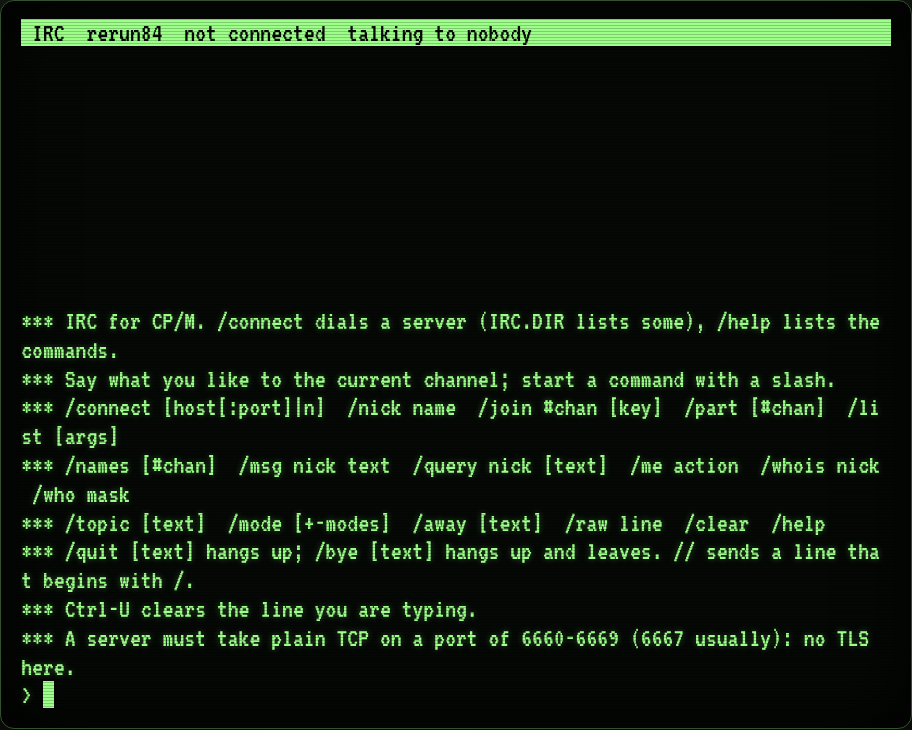
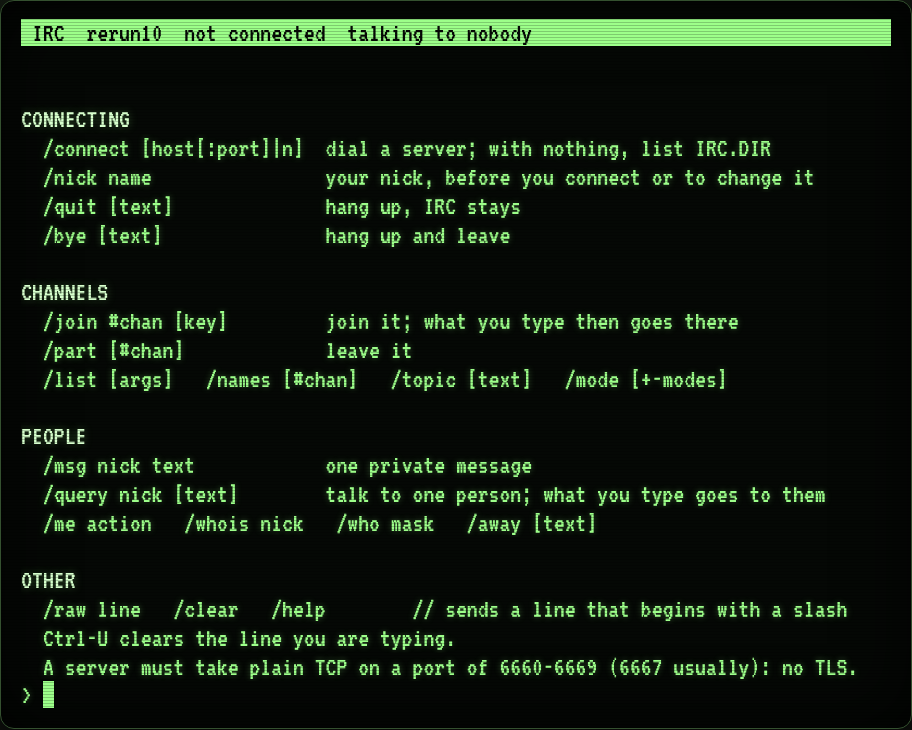
feat(irc): a welcome that shows how to start and a grouped /help; ready-made TERM.DIR and IRC.DIR
/help is four groups (connecting, channels, people, other) in aligned columns
instead of one run-on paragraph. TERM.DIR and IRC.DIR move to the root, ten
entries each, with a test of the limits the programs have (16 entries, 37
columns for TERM, a 24-character dial string).

Changed region(s): [[0.0, 0.3918, 0.9825, 0.9342], [0.0307, 0.1507, 0.8904, 0.3315], [0.1535, 0.0301, 0.1842, 0.0603]]

diff --git a/test/dir.test.js b/test/dir.test.js
@@ -1,0 +1,21 @@
+'use strict';
+// The example directories are real lists the programs can read: TERM shows at most
+// 16 entries, each in a column of 38 characters; IRC lists 16, a line of 76.
+const test = require('node:test');
+const assert = require('node:assert/strict');
+const fs = require('node:fs');
+const path = require('node:path');
+
+const lines = f => fs.readFileSync(path.join(__dirname, '..', f), 'latin1').split('\n').filter(Boolean);
+
+test('TERM.DIR: entries a dial string and a name, each fits its column', () => {
+    const l = lines('TERM.DIR');
+    assert.ok(l.length >= 5 && l.length <= 16, `${l.length} entries`);
+    for (const e of l) { assert.ok(e.length <= 37, e); assert.match(e, /^\S{1,24}( .+)?$/, e); }
+});
+
+test('IRC.DIR: host:port and a name, a plain port', () => {
+    const l = lines('IRC.DIR');
+    assert.ok(l.length >= 5 && l.length <= 16, `${l.length} entries`);
+    for (const e of l) { assert.ok(e.length <= 76, e); assert.match(e, /^[a-z0-9.-]+:66(6\d|60) \S/, e); }
+});

diff --git a/README.md b/README.md
@@ -40,7 +40,7 @@ ATDT0100            the Digital Rerun BBS
 
 ## IRC
 
-It dials a server through the modem, registers (`NICK`, `USER`) and talks IRC. A status bar on
+On start it shows how to begin (`/connect`, `/connect 1`, `/help`); `/help` lists every command in four groups: connecting, channels, people, other. It dials a server through the modem, registers (`NICK`, `USER`) and talks IRC. A status bar on
 the top row (your nick, the server, who you are talking to), the messages scrolling below it,
 your line (76 characters; backspace edits, Ctrl-U clears) on the bottom row. A line that does
 not start with a slash is said to the current channel or person; `//text` says a line that
@@ -55,7 +55,7 @@ begins with a slash.
 | `/list`, `/names`, `/whois`, `/who`, `/topic`, `/mode`, `/away` | the rest of the line goes to the server |
 | `/raw line` | a line to the server as it is |
 | `/quit [text]`, `/bye [text]` | hang up (IRC stays); hang up and leave |
-| `/help`, `/clear` | the commands; clear the screen |
+| `/help`, `/clear` | the commands, grouped; clear the screen |
 
 Plain TCP only: the program does no TLS, so the server must listen on a port of 6660-6669
 (6667 usually).
@@ -63,17 +63,25 @@ Plain TCP only: the program does no TLS, so the server must listen on a port of 
 ## The directories
 
 `TERM.DIR` and `IRC.DIR` are plain text files beside the programs, one place per line, edited
-with any CP/M editor (`ED`). Both end at the end of the file or at a `^Z`; the programs read up
-to 1536 bytes of it. Examples are in [`examples/`](examples/).
+with any CP/M editor (`ED`). Both ship here filled in, ready to copy next to the `.COM` files
+(copy them as text, so the file ends in a `^Z`):
 
 ```
-TERM.DIR   a number or a host[:port], then a name      0101 telehack.com
-IRC.DIR    host[:port], then a name                   irc.libera.chat:6667 Libera.Chat
+TERM.DIR   the string to dial, then a name       telehack.com Telehack
+IRC.DIR    host[:port], then a name              irc.libera.chat:6667 Libera.Chat: free and open source projects
 ```
+
+- **TERM.DIR** lists up to 16 places, shown in two columns, so keep a line to 37 characters; the
+  first word (at most 24 characters) is what `ATDT` gets. The ten here are telnet hosts: BBSes,
+  a MUD, NetHack, Telehack, a public-access Unix. They need a modem that dials a host name (a WiFi
+  modem, or DigitalRerun's bridge); on a modem that dials numbers, put numbers.
+- **IRC.DIR** lists up to 16 servers, ten here (Libera.Chat, OFTC, Rizon, EFnet, DALnet,
+  Undernet, QuakeNet, IRCnet, Snoonet, GameSurge), all on port 6667. `/connect` shows them
+  numbered; `/connect 3` dials the third.
 
 In DigitalRerun both files are generated at build time from the emulator's own dial list
-(`js/devices/directory.js`), because the numbers must match what its modem can dial. The
-examples here are a copy of what it ships.
+(`js/devices/directory.js`), because the numbers must match what its modem can dial; the files
+here are for every other machine.
 
 ## Running
 
@@ -118,8 +126,8 @@ committed.
 |---|---|
 | `term.asm`, `irc.asm` | the sources |
 | `TERM.COM`, `IRC.COM` | as built |
-| `build.js`, `test/` | the build and its check |
-| `examples/` | `TERM.DIR` and `IRC.DIR` as DigitalRerun ships them |
+| `build.js`, `test/` | the build and its check; the directories' limits |
+| `TERM.DIR`, `IRC.DIR` | ready-made directories of places to go |
 | `docs/` | the disk's readme, the screenshots |
 
 ## Licence
